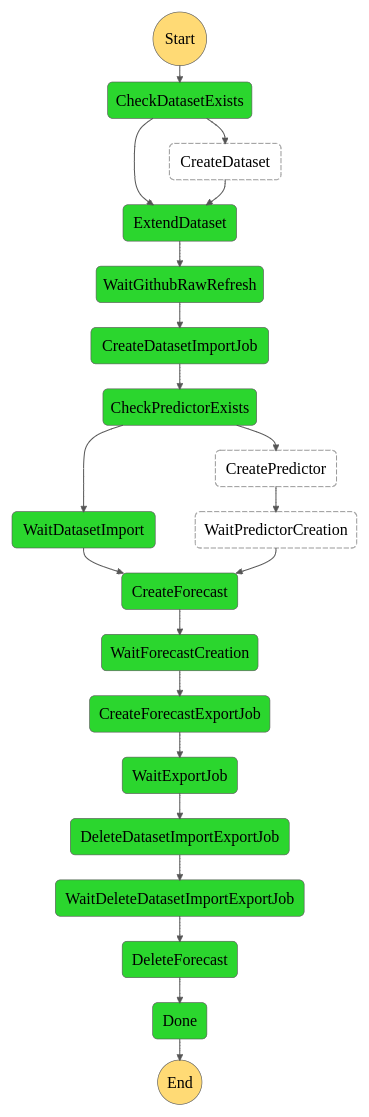
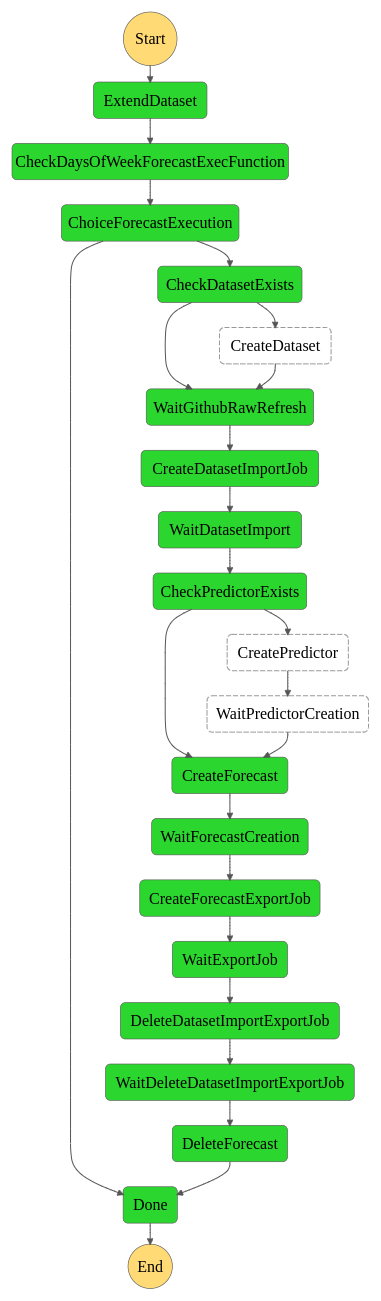
introduced related time series extract all forecast paramenter into template.yaml

diff --git a/src/lambda.js b/src/lambda.js
@@ -1,13 +1,12 @@
 const AWS = require('aws-sdk');
 const s3 = new AWS.S3();
-const iam = new AWS.IAM();
 const forecastservice = new AWS.ForecastService();
 const fastCsv = require('fast-csv');
 const axios = require('axios')
 const moment = require('moment');
 const { commitPushFiles } = require("./lib/git");
 const { buildDataFiles, stringifyCSV, orderByData } = require("./lib/data_file");
-const { replaceAccountId } = require("./lib/utils");
+const { replaceAccountId, calculateFrequencyMultiplier } = require("./lib/utils");
 
 const todaySuffix = moment().format('YYYYMMDD');
 
@@ -83,7 +82,58 @@ exports.createDatasetImportJobHandler = async() => {
         DatasetImportJobName: `${process.env.FORECAST_DATASET_IMPORT_JOB_NAME_PREFIX}_${todaySuffix}`,
         TimestampFormat: 'yyyy-MM-dd HH:mm:ss'
     };
-    console.log(`create dataset import job ${params.DatasetImportJobName} on dataset ${process.env.FORECAST_DATASET_ARN} with role ${process.env.FORECAST_EXE_ROLE_ARN} `)
+    console.log(`create dataset import job ${params.DatasetImportJobName} on dataset ${params.DatasetArn} with role ${params.DataSource.S3Config.RoleArn} `)
+    await forecastservice.createDatasetImportJob(params).promise()
+    return createDatasetImportJobRelated(regionalData)
+}
+
+/** 
+ * create dateset import job related
+ */
+const createDatasetImportJobRelated = async(regionalData) => {
+
+    const { frequency, multiplier } = calculateFrequencyMultiplier();
+    const windowInfTimestamp = moment(regionalData[regionalData.length - 1].data)
+        .add(-1 * multiplier * process.env.FORECAST_HORIZON,
+            frequency);
+    console.log('prepare CSV for forecast dataset related import')
+    const data = []
+    for await (const row of regionalData) {
+        data.push({
+                'item_id': row.denominazione_regione,
+                'timestamp': moment(row.data).format('YYYY-MM-DD HH:MM:ss'),
+                'related_value': row.tamponi
+            })
+            // copy missing data from past in order to cover the orizon
+        if (!moment(row.data).isBefore(windowInfTimestamp)) {
+            const horizonToAdd = (multiplier * process.env.FORECAST_HORIZON) + multiplier
+            data.push({
+                'item_id': row.denominazione_regione,
+                'timestamp': moment(row.data).add(horizonToAdd, frequency).format('YYYY-MM-DD HH:MM:ss'),
+                'related_value': row.tamponi
+            })
+        }
+    }
+    const objectParams = {
+        Bucket: process.env.FORECAST_INPUT_BUCKET_NAME,
+        Key: process.env.FORECAST_RELATED_INPUT_BUCKET_KEY,
+        Body: Buffer.from(stringifyCSV(data))
+    }
+    console.debug(`upload  ${process.env.FORECAST_INPUT_BUCKET_NAME}/${process.env.FORECAST_RELATED_INPUT_BUCKET_KEY}`)
+    await s3.upload(objectParams).promise()
+
+    const params = {
+        DataSource: {
+            S3Config: {
+                Path: `s3://${process.env.FORECAST_INPUT_BUCKET_NAME}/${process.env.FORECAST_RELATED_INPUT_BUCKET_KEY}`,
+                RoleArn: await replaceAccountId(process.env.FORECAST_EXE_ROLE_ARN),
+            }
+        },
+        DatasetArn: await replaceAccountId(process.env.FORECAST_RELATED_DATASET_ARN),
+        DatasetImportJobName: `${process.env.FORECAST_RELATED_DATASET_IMPORT_JOB_NAME_PREFIX}_${todaySuffix}`,
+        TimestampFormat: 'yyyy-MM-dd HH:mm:ss'
+    };
+    console.log(`create dataset import job ${params.DatasetImportJobName} on dataset ${params.DatasetArn} with role ${params.DataSource.S3Config.RoleArn} `)
     return forecastservice.createDatasetImportJob(params).promise()
 }
 
@@ -150,16 +200,19 @@ exports.pushForecastInGithubHandler = async(event) => {
     }).sort(orderByData);
     console.log('country forecast dataset last date:', countryRows[countryRows.length - 1].date);
 
+    const suffix = process.env.FORECAST_ALGORITHM_ARN ?
+        process.env.FORECAST_ALGORITHM_ARN.replace('arn:aws:forecast:::algorithm/', '-') :
+        ''
     const data = [{
-            path: `dati-json-forecast/covid19-ita-regioni-forecast.json`,
+            path: `dati-json-forecast/covid19-ita-regioni-forecast${suffix}.json`,
             content: rows
         },
         {
-            path: `dati-json-forecast/covid19-ita-andamento-nazionale-forecast.json`,
+            path: `dati-json-forecast/covid19-ita-andamento-nazionale-forecast${suffix}.json`,
             content: countryRows
         }
     ]
-    await commitPushFiles(data, `Amazon Forecast ${moment().format()}`)
+    await commitPushFiles(data, `Amazon-Forecast${suffix} ${moment().format()}`)
 
     // clean forecast output bucket
     console.info(`clean forecast output bucket ${objectParams.Bucket}`);
@@ -197,8 +250,21 @@ exports.deleteDatasetImportExportJob = async() => {
             DatasetImportJobArn: datasetImportJobArn,
         }).promise()
     } {
-        console.log(`skip deletion of first (predictor in use) dataset import job  ${datasetImportJobArn}`)
+        console.log(`skip deletion of first two (predictor in use) dataset import job  ${datasetImportJobArn}`)
     }
+
+    const relatedDatasetImportJobArn = await replaceAccountId(`${process.env.FORECAST_RELATED_DATASET_IMPORT_JOB_ARN_PREFIX}_${todaySuffix}`)
+
+    // skip deletion of the first dataset import job because is in use of predictor
+    if (predictor.DatasetImportJobArns.indexOf(relatedDatasetImportJobArn) < 0) {
+        console.log(`delete dataset import job ${relatedDatasetImportJobArn}`)
+        await forecastservice.deleteDatasetImportJob({
+            DatasetImportJobArn: relatedDatasetImportJobArn,
+        }).promise()
+    } {
+        console.log(`skip deletion of first two (predictor in use) dataset import job  ${relatedDatasetImportJobArn}`)
+    }
+
     // delete forecast export
     return deleteForecastExportJob()
 }
@@ -219,7 +285,7 @@ const deleteForecastExportJob = async() => {
  * delete forecast
  */
 exports.deleteForecastHandler = async() => {
-    const forecastArn = `${process.env.FORECAST_ARN_PREFIX}_${todaySuffix}`
+    const forecastArn = await replaceAccountId(`${process.env.FORECAST_ARN_PREFIX}_${todaySuffix}`)
     console.log(`delete forecast ${forecastArn}`)
     return forecastservice.deleteForecast({
         ForecastArn: forecastArn,
@@ -242,11 +308,12 @@ exports.describeDatasetHandler = async() => {
  */
 exports.createDatasetHandler = async() => {
     let createDatasetResp = null
+    let createRelatedDatasetResp = null
     try {
         const paramsDataset = {
             DatasetName: process.env.FORECAST_DATASET_NAME,
             DatasetType: 'TARGET_TIME_SERIES',
-            DataFrequency: 'D',
+            DataFrequency: process.env.FORECAST_DATA_FREQUENCY,
             Domain: 'CUSTOM',
             Schema: {
                 Attributes: [{
@@ -265,12 +332,17 @@ exports.createDatasetHandler = async() => {
             },
         };
         createDatasetResp = await forecastservice.createDataset(paramsDataset).promise()
-            // create dataset group
+
+        // create the related dataset
+        createRelatedDatasetResp = await createRelatedDatasetHandler();
+
+        // create dataset group
         const paramsDatasetGroup = {
             DatasetGroupName: `${process.env.FORECAST_DATASET_GROUP_NAME}`,
             Domain: 'CUSTOM',
             DatasetArns: [
-                createDatasetResp.DatasetArn
+                createDatasetResp.DatasetArn,
+                createRelatedDatasetResp.DatasetArn
             ]
         };
         console.log(`create dataset group ${paramsDatasetGroup.DatasetGroupName}`)
@@ -283,8 +355,44 @@ exports.createDatasetHandler = async() => {
                 DatasetArn: createDatasetResp.DatasetArn
             }).promise()
         }
+        // if error and related dataset was created, delete it 
+        if (createRelatedDatasetResp) {
+            console.log(`createDatasetG fails, delete dataset arn ${createRelatedDatasetResp.DatasetArn}`)
+            await forecastservice.deleteDataset({
+                DatasetArn: createRelatedDatasetResp.DatasetArn
+            }).promise()
+        }
         throw err
     }
+}
+
+/**
+ * create Related Dataset
+ */
+const createRelatedDatasetHandler = async() => {
+    const paramsDataset = {
+        DatasetName: process.env.FORECAST_RELATED_DATASET_NAME,
+        DatasetType: 'RELATED_TIME_SERIES',
+        DataFrequency: process.env.FORECAST_DATA_FREQUENCY,
+        Domain: 'CUSTOM',
+        Schema: {
+            Attributes: [{
+                    AttributeName: "item_id",
+                    AttributeType: "string"
+                },
+                {
+                    AttributeName: "timestamp",
+                    AttributeType: "timestamp"
+                },
+                {
+                    AttributeName: "related_value",
+                    AttributeType: "float"
+                }
+            ]
+        },
+    };
+    const createRelatedDatasetResp = await forecastservice.createDataset(paramsDataset).promise()
+    return createRelatedDatasetResp
 }
 
 /**
@@ -303,16 +411,21 @@ exports.describePredictorHandler = async() => {
  */
 exports.createPredictorHandler = async() => {
     const datasetGroupArn = await replaceAccountId(process.env.FORECAST_DATASET_GROUP_ARN)
+    const isEmptyForecast = !process.env.FORECAST_ALGORITHM_ARN || process.env.FORECAST_ALGORITHM_ARN == ''
     const params = {
         FeaturizationConfig: {
-            ForecastFrequency: 'D',
+            ForecastFrequency: process.env.FORECAST_DATA_FREQUENCY,
         },
-        ForecastHorizon: '8',
+        ForecastHorizon: process.env.FORECAST_HORIZON,
         InputDataConfig: {
             DatasetGroupArn: datasetGroupArn,
         },
         PredictorName: process.env.FORECAST_PREDICTOR_NAME,
-        PerformAutoML: true
+        PerformAutoML: isEmptyForecast // Perform Auto ML if no algorithm is specified
     };
+    if (!isEmptyForecast) {
+        params.AlgorithmArn = process.env.FORECAST_ALGORITHM_ARN
+    }
+    console.log(`create predictor params`, params)
     return await forecastservice.createPredictor(params).promise()
 }

diff --git a/src/lib/utils.js b/src/lib/utils.js
@@ -1,3 +1,6 @@
+const AWS = require('aws-sdk');
+const iam = new AWS.IAM();
+
 /**
  * create an http response
  * @param {string} statusCode
@@ -13,12 +16,39 @@ exports.httpResponse = (statusCode, data) => {
     };
 };
 
-
-
 exports.replaceAccountId = async(arn) => {
     if (arn.indexOf('123456789012') >= 0) {
         const user = await iam.getUser().promise()
         return arn.replace('123456789012', user.User.Arn.split(':')[4])
     }
     return arn
+}
+
+exports.calculateFrequencyMultiplier = () => {
+    switch (process.env.FORECAST_DATA_FREQUENCY) {
+        case 'Y':
+            return { frequency: 'year', multiplier: 1 }
+        case 'M':
+            return { frequency: 'month', multiplier: 1 }
+        case 'W':
+            return { frequency: 'week', multiplier: 1 }
+        case 'D':
+            return { frequency: 'day', multiplier: 1 }
+        case 'H':
+            return { frequency: 'hour', multiplier: 1 }
+        case '30min':
+            return { frequency: 'minute', multiplier: 30 }
+        case '15min':
+            return { frequency: 'minute', multiplier: 15 }
+        case '10min':
+            return { frequency: 'minute', multiplier: 5 }
+        case '5min':
+            return { frequency: 'minute', multiplier: 5 }
+        case '1min':
+            return { frequency: 'minute', multiplier: 1 }
+        default:
+            break;
+    }
+    InvalidFrequencyError.prototype = new Error()
+    throw new InvalidFrequencyError('InvalidFrequencyError', 'invalid frequency, expected Y M W D H 30min 15min 10min 5min 1min found ' + process.env.FORECAST_HORIZON)
 }

diff --git a/README.md b/README.md
@@ -25,17 +25,21 @@ Because `AWS Step Functions` is a __Serverless State Machine__ which orchestrate
 
 Only the first state machine execution creates the persistent entities __Dataset__, __Dataset Group__ and __Predictor__, while during daily next executions, the forecast will update creating __Forecast Dataset Import Job__, __Forecast__ and __Export Job__
 
-The `AWS Step Functions` is launched by a `AWS Cloud Watch Event Rule` which start every day at 16:00 PM UTC. 
+The `AWS Step Functions` is launched by a `AWS Cloud Watch Event Rule` which start following the rule expression defined into `StateMachineEventRuleScheduleExpression` parameter. But the forecast is generated only in day of week defined into `ForecastDaysOfWeekExecution` parameter. 
 
 ![AWS Step Functions Forecast](/images/stepfunctions_graph.png "AWS Step Functions Forecast")
 
 Below the daily flow of `AWS Step Functions` steps:
 
+1. `Extend Dataset` is a specific task of case study, you can drop it. Download from daily official dataset, extend it and push in configured Github repository. It retries until a new dataset is pushed into official repository  
+
+1. `CheckDaysOfWeekForecastExec` is a simple inline lambda which set `isToExecuteForecast` = true if the day of week of today is in `ForecastDaysOfWeekExecution` parameter
+
+1. `ChoiceForecastExecution` is a choice on `isToExecuteForecast`: if `true` generate forecast otherwise go to `Done` task and exit
+
 1. `CheckDatasetExist` is the start state, check if the __Dataset__ and (__Dataset Group__) exists. 
 
    * If it doesn't exist means this is the first execution. `CreateDatase` create the __Dataset__ and __Dataset Group__
-
-1. `Extend Dataset` is a specific task of case study, you can drop it. Download from daily official dataset, extend it and push in configured Github repository. It retries until a new dataset is pushed into official repository  
 
 1. `WaitGithubRawRefresh` another specific task of case study which can be dopped. It wait some minute in order to be sure the github raw cache is refreshed after push
 
@@ -62,6 +66,8 @@ v
 
 1. `DeleteForecast` deletes the daily __Forecast__
 
+1. `Done` the end state of workflow
+
 Some tasks retries after a failure in order to wait that previous step is succesfully finished.
 
 The `AWS SAM Template` assign the minimum permission to each `AWS Lambda Functions` in order to complete his task. All the entities (`S3 Bucket`, `AWS Lambda Function`, `IAM Roles`, `AWS Step Functions`, `Event Rule`) are created/updated/deleted by `AWS SAM Template` stack, so no manual activies is needes.
@@ -75,7 +81,7 @@ Install
 
 1. install `nodejs` `aws-cli` `aws-sam-cli` `docker`
 
-1. generare `aws_ac-cess_key_id` e `aws_secret_access_key` from a AWS user with the permissions for create/update/delete CloudFormation stacks 
+1. generare `aws_ac-cess_key_id` and `aws_secret_access_key` from a AWS user with the permissions for create/update/delete CloudFormation stacks 
 
 1. create the github repository `<GITHUB_REPO>` in your account `<GITHUB_USER>` 
 
